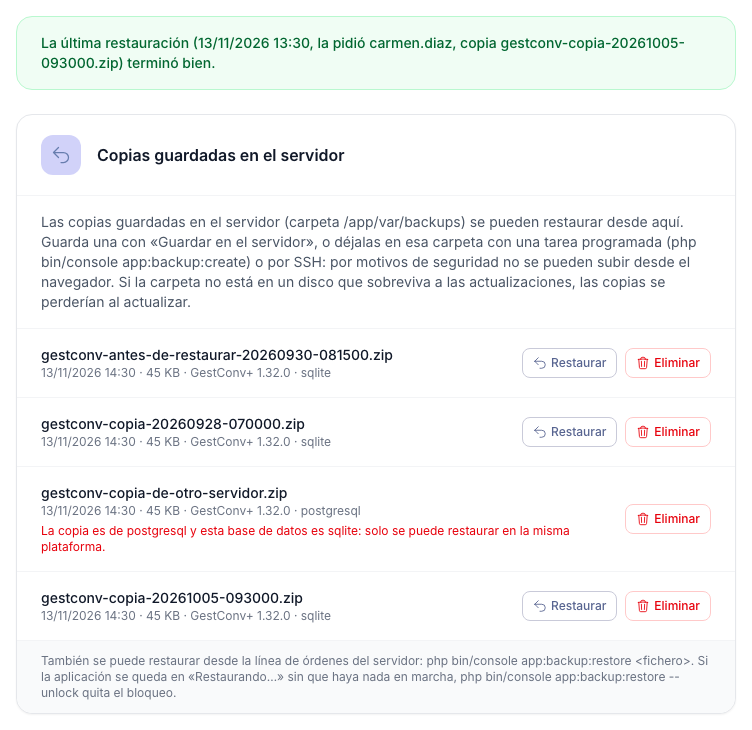
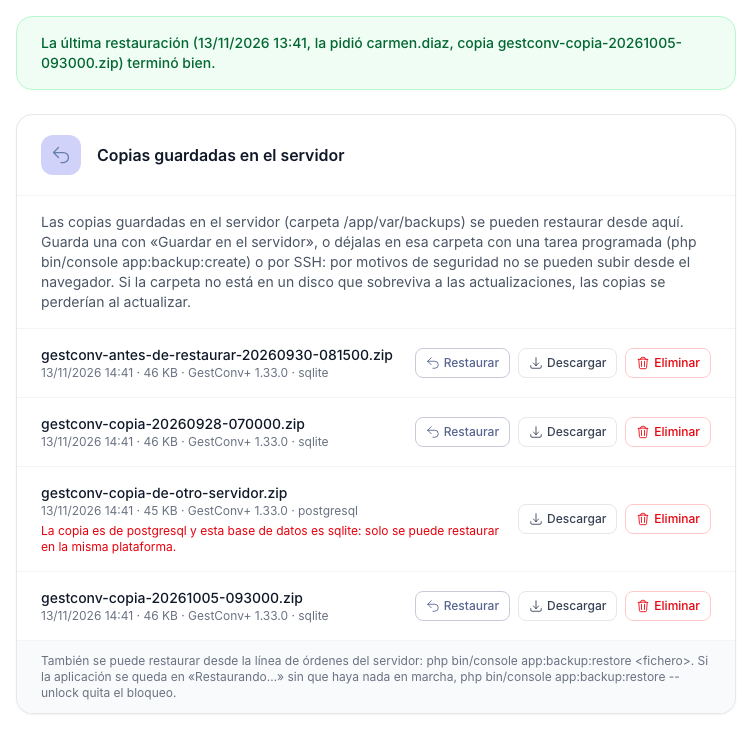
chore(release): publica la versión 1.34.0

diff --git a/docs/manual/13-administrar-la-plataforma.md b/docs/manual/13-administrar-la-plataforma.md
@@ -790,7 +790,7 @@ copia la baja a tu equipo (para guardarla en otra máquina, como se recomienda);
 la de una copia nueva, con su anotación en el registro de actividad, y sirve también para las
 `gestconv-antes-de-restaurar-…`.
 
-![Resultado de la última restauración y lista de copias guardadas en el servidor, con los botones Restaurar y Eliminar; una copia de otra plataforma aparece con su motivo en rojo y sin botón Restaurar](img/admin/admin-copias-servidor.png)
+![Resultado de la última restauración y lista de copias guardadas en el servidor, con los botones Restaurar, Descargar y Eliminar; una copia de otra plataforma aparece con su motivo en rojo y sin botón Restaurar](img/admin/admin-copias-servidor.png)
 
 **Restaurar** abre una pantalla de revisión con los datos de la copia y lo que va a pasar. Para
 confirmar hay que escribir **tu contraseña** y la palabra **RESTAURAR**; una cuenta sin contraseña propia

diff --git a/CHANGELOG.md b/CHANGELOG.md
@@ -5,11 +5,15 @@ All notable changes to this project will be documented in this file.
 The format is based on [Keep a Changelog](https://keepachangelog.com/en/1.1.0/),
 and this project adheres to [Semantic Versioning](https://semver.org/spec/v2.0.0.html).
 
-## [Unreleased]
+## [1.34.0] - 2026-11-13
 
 ### Added
 
 - Botón **Descargar** en cada copia guardada en el servidor (Administración › Copia de seguridad y versión), para llevarla a otra máquina. Es un POST con token CSRF, anotado en el registro de actividad, y solo sirve ficheros de la carpeta de copias.
+
+### Fixed
+
+- Se elimina un aviso de deprecación de Doctrine DBAL (`Index::getColumns`) que la copia de seguridad escribía en el registro del servidor.
 
 ## [1.33.0] - 2026-11-13
 

diff --git a/README.md b/README.md
@@ -9,7 +9,7 @@
 </p>
 
 <p align="center">
-  <strong>v1.33.0</strong> &nbsp;·&nbsp;
+  <strong>v1.34.0</strong> &nbsp;·&nbsp;
   <a href="https://reasol-edu.github.io/gestconv-plus/">Documentación</a> &nbsp;·&nbsp;
   <a href="CHANGELOG.md">Cambios</a> &nbsp;·&nbsp;
   <a href="CONTRIBUTING.md">Contribuir</a> &nbsp;·&nbsp;
